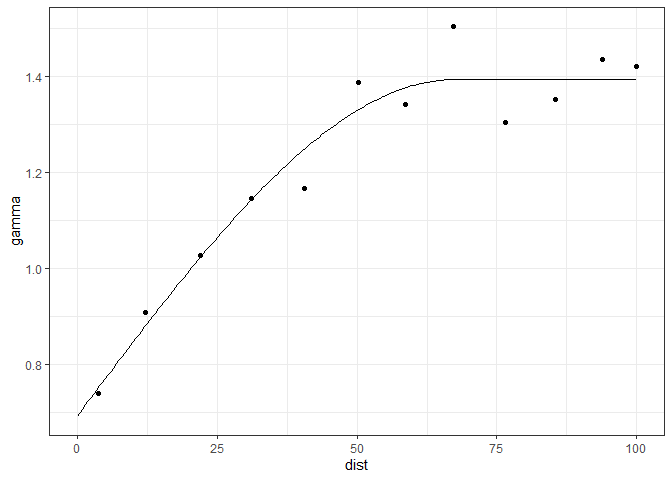
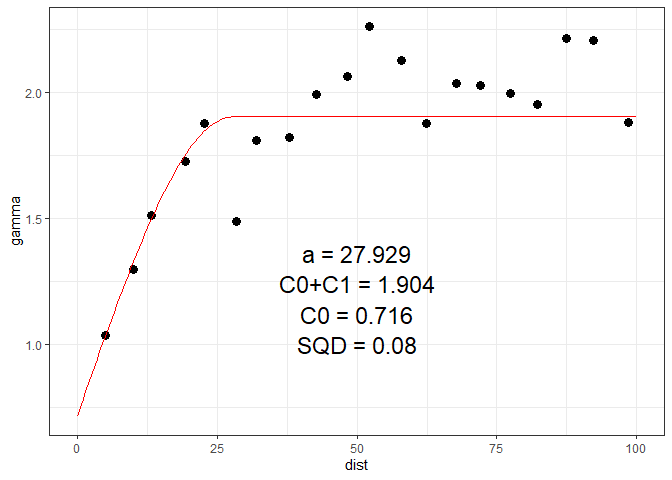
curso 2 final

diff --git a/README.md b/README.md
@@ -719,13 +719,13 @@ $$\begin{cases}
 \hat{\gamma}(h) = Cte \text{ caso contrário }
 \end{cases}$$
 
-![](img/img-15.png)
+![](img/img-15.png) Semivariograma chamado de efeito pepita puro
 
 #### b) Modelo exponencial:
 
-\$\$ (h) = b(h)^c 0 \< c \< 2 h
+$$\hat{\gamma}(h) = b(h)^c \text{ com } 0 < c < 2 \text{ e } h \geq 0$$
 
-\$\$ ![](img/img-16.png)
+![](img/img-16.png)
 
 #### c) Modelo exponencial:
 
@@ -804,13 +804,115 @@ levemente ondulada.
 
 ### 17) Ajuste os modelos esférico, exponencial e gaussiano ao semivariogrma experimental anteriormente apresentado. Utilize as funções `fit.variogram`, `vgm` e `variogramLine`, pertencentes ao pacote `{gstat}`.
 
-## Ajuste Esférico
+``` r
+# Construção do semivariogrma pela função variogram do
+# pacote gstat
+# Recorte do banco de dados com x, y, e z
+df_aux <- dados_geo |>
+  filter(tratamento == "EU") |>
+  select(x, y, fco2) |>
+  rename(z = fco2) # mude aqui para outro atributo, se necessário
+class(df_aux)
+#> [1] "tbl_df"     "tbl"        "data.frame"
 
-## Ajuste Exponencial
 
-## Ajuste Gaussiano
+# temos que passar df_aux para SpatialData uma vez que
+# as funções do gstat trabalham com esse formato de dados
+sp::coordinates(df_aux) = ~ x + y
+head(df_aux)
+#>   coordinates     z
+#> 1      (0, 0) 5.164
+#> 2     (20, 0) 4.528
+#> 3     (40, 0) 5.048
+#> 4     (60, 0) 5.298
+#> 5     (80, 0) 6.576
+#> 6    (100, 0) 5.124
+class(df_aux)
+#> [1] "SpatialPointsDataFrame"
+#> attr(,"package")
+#> [1] "sp"
+mode(df_aux)
+#> [1] "S4"
+
+# criando a fórmula para o semivariograma
+form <- z ~ 1
+
+# criar o semivarigrama experimental
+semi_exp <- gstat::variogram(form, df_aux,
+                             cutoff=100,
+                             width = 5)
+semi_exp |>
+  ggplot(aes(x=dist, y=gamma)) +
+  geom_point(size=3) +
+  theme_bw() +
+  annotate("text",
+           x=semi_exp$dist,
+           y=semi_exp$gamma*0.98,
+           label = semi_exp$np)
+```
+
+![](README_files/figure-gfm/unnamed-chunk-27-1.png)<!-- -->
+
+\#Modelagem - Modelo Esférico
+
+``` r
+# Modelagem - Modelo Esférico (aula)
+mod_ajust <- fit.variogram(semi_exp,
+                           vgm(model = "Sph",
+                               nugget=0.5,
+                               psill=1.8,
+                               range=50)
+                           )
+linha_preditos <- variogramLine(mod_ajust,
+                                maxdist = 100)
+plot(linha_preditos)
+```
+
+![](README_files/figure-gfm/unnamed-chunk-28-1.png)<!-- -->
+
+``` r
+semi_exp |>
+  ggplot(aes(x=dist, y=gamma)) +
+  geom_point(size=3) +
+  theme_bw()+
+  geom_line(data = linha_preditos,
+            aes(x=dist, y=gamma),
+            color="red")
+```
+
+![](README_files/figure-gfm/unnamed-chunk-28-2.png)<!-- -->
+
+## Modelagem - Modelo Exponencial (casa)
+
+## Modelagem - Modelo Gaussiano (casa)
 
 ### 18) Extraia os parâmetros dos modelos ajustados e adicione-os como uma anotação no semivariograma.
+
+``` r
+# Extração dos parâmetros
+sse <- attr(mod_ajust, "SSErr") # soma quadrados resíduos
+nugget <- mod_ajust$psill[1] # efeito pepita C0
+sill <- sum(mod_ajust$psill) # patamar C0 + C1
+alcance <- mod_ajust$range[2]
+
+texto_par <- paste0(c("SQD","C0","C0+C1","a"),
+                    " = ",
+                    round(c(sse,nugget,sill,alcance),3)
+                    )
+
+semi_exp |>
+  ggplot(aes(x=dist, y=gamma)) +
+  geom_point(size=3) +
+  theme_bw()+
+  geom_line(data = linha_preditos,
+            aes(x=dist, y=gamma),
+            color="red") +
+  annotate("text",x=50,
+           y=seq(1,1.4,.12),
+           label = texto_par,size=6)
+```
+
+![](README_files/figure-gfm/unnamed-chunk-29-1.png)<!-- -->
 
 ## Resumo do realizado até aqui
 
@@ -956,10 +1058,11 @@ Sistema de krigagem na notação matricial.
 **Matriz de semivariância entre as amostras** $$[\gamma]=\begin{bmatrix}
 \gamma(X_1,X_1) & \gamma(X_1,X_2) & \cdots & \gamma(X_1,X_N) & 1 \\
 \gamma(X_2,X_1) & \gamma(X_2,X_2) &  &\gamma(X_2,X_N) & 1 \\
-\vdots & & \ddots & \vdots & 1\\
+\cdots & & \ddots & \cdots & 1\\
 \gamma(X_N,X_1) & \gamma(X_N,X_2) & \cdots & \gamma(X_N,X_N) & 1 \\
 1 & 1 & 1 & 1 &0 \\
-\end{bmatrix}$$
+\end{bmatrix}
+$$
 
 **Matriz de semivariância entre as amostras e o ponto a estimar**
 
@@ -1025,9 +1128,77 @@ $$
 
 ### 19) Crie a região de adensamento, ou seja, um novo arquivo contendo a posição geográfica (pares de coordenadas) onde será realizada a estimativa via krigagem ordinária.
 
+``` r
+dados_geo |>
+  filter(tratamento == "EU") |>
+  ggplot(aes(x=x,y=y)) +
+  geom_point() +
+  theme_bw()
+```
+
+![](README_files/figure-gfm/unnamed-chunk-30-1.png)<!-- -->
+
+``` r
+
+menor_dist <- 1
+
+grid_adensado <- expand.grid(
+  x=seq(0,100,menor_dist),
+  y=seq(0,100,menor_dist)
+)
+
+dados_geo |>
+  filter(tratamento == "EU") |>
+  ggplot(aes(x=x,y=y)) +
+  geom_point() +
+  geom_point( data = grid_adensado,
+              aes(x=x,y=y),
+              color="blue",
+              size=1) +
+  theme_bw()
+```
+
+![](README_files/figure-gfm/unnamed-chunk-30-2.png)<!-- -->
+
+``` r
+
+# tranformar o grid_adensado em um objeto
+# SpatiaData
+sp::coordinates(grid_adensado) = ~ x+ y
+```
+
 ### 20) Utilizando o algorítmo da KO, vamos estimar o atributo nos locais não amostrados (gradeado adensado).
 
+``` r
+ko <- gstat::krige(form, df_aux,grid_adensado,
+                   mod_ajust)
+#> [using ordinary kriging]
+```
+
 ### 21) Apresente os padrões espaciais (mapa de ko) e o mapa da estimativa do erro.
+
+``` r
+ko |>
+  as_tibble() |>
+  ggplot(aes(x=x,y=y)) +
+  geom_tile(aes(fill= var1.pred)) +
+  scale_fill_viridis_c() +
+  labs(title = "FCO2")
+```
+
+![](README_files/figure-gfm/unnamed-chunk-32-1.png)<!-- -->
+
+``` r
+
+ko |>
+  as_tibble() |>
+  ggplot(aes(x=x,y=y)) +
+  geom_tile(aes(fill= var1.var)) +
+  scale_fill_viridis_c() +
+  labs(title = "FCO2 (desvios)")
+```
+
+![](README_files/figure-gfm/unnamed-chunk-32-2.png)<!-- -->
 
 ## Referências
 
